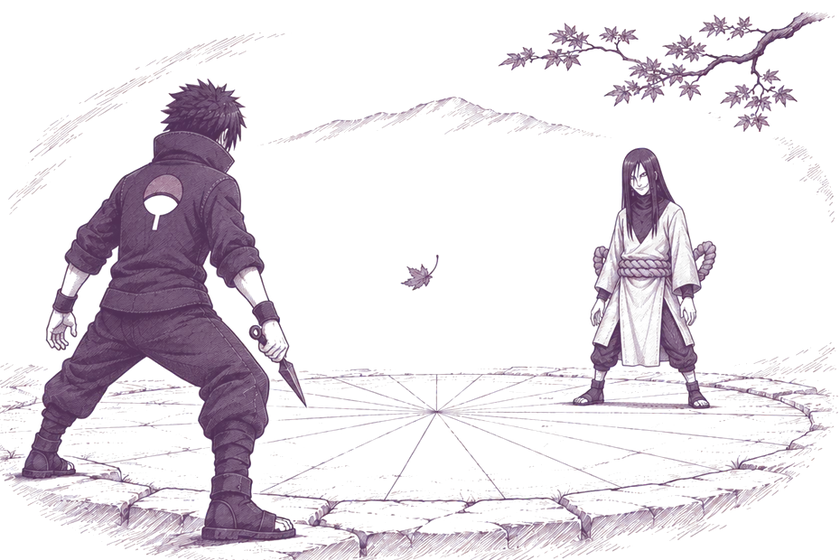
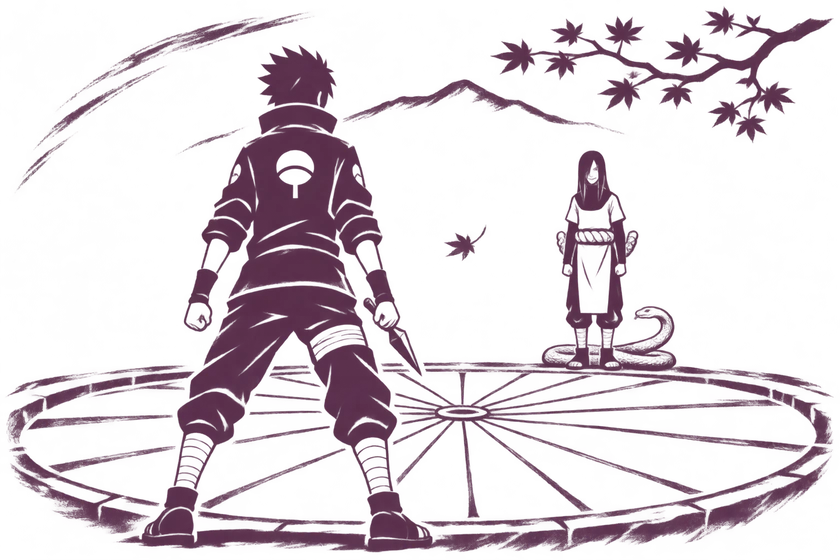
Corrija o duelo na arte do card Arcade
- Posicione Orochimaru na borda oposta com o traje corrigido

- Preserve a tinta ameixa e a transparencia do pergaminho

diff --git a/docs/tarefas/banner-arcade.md b/docs/tarefas/banner-arcade.md
@@ -1,0 +1,33 @@
+---
+objetivo: Mostrar o Uchiha e Orochimaru nas bordas opostas da roleta na ilustração do card Arcade do Portão, com o figurino de Orochimaru corrigido.
+escopo: ["docs/tarefas/banner-arcade.md", "public/img/cenas/modo-roleta.webp", "docs/visual.md", "changelog.d/banner-arcade.md"]
+fora: ["public/img/cenas/arcade.webp", "public/img/ninja/**", "public/img/viloes/**", "prototype/**", "src/**"]
+pronto: ["WebP transparente em 840 × 560, em tinta ameixa", "Figurino reconhecível e personagens em lados opostos no card", "Conferência de gate.home em 390, 768, 1280, 1920 e 2560 px", "npm run check verde e PR para staging"]
+agente: codex
+aprovado: 2026-11-28
+---
+
+# Duelo no card Arcade do Portão
+
+## Pedido
+
+Aplicar ao banner enviado o enquadramento aprovado no painel do Arcade e corrigir o desenho de Orochimaru.
+
+## Contexto
+
+O Portão usa a ilustração transparente `modo-roleta.webp`. A referência de composição é a pintura aprovada para o lobby, com o Uchiha grande, de costas, e Orochimaru menor, de frente, sobre a borda distante. A identidade dos cards está em [visual.md](../visual.md).
+
+## Plano
+
+1. Com o contrato aprovado, usar o WebP original, a pintura aprovada e o modelo de corpo inteiro como referências. Preservar o formato 3:2, as áreas transparentes, a tinta ameixa e as marcas de pincel.
+2. Desenhar o Uchiha com a kunai baixa e Orochimaru na outra extremidade do círculo. Deixar o eixo da roda entre os dois. Manter as mãos discretas, túnica de mangas curtas sobre mangas escuras, corda única na cintura, ataduras nas canelas e sandálias abertas. Usar o negativo do papel para distinguir esses detalhes em tamanho de card.
+3. Mostrar a arte para escolha antes de substituir o WebP. Conferir a transparência e a leitura no Portão, comparar antes e depois e registrar a mudança na tabela de cenas e no fragmento.
+4. Rodar `npm run check` e abrir PR da branch para `staging`.
+
+## Fora do escopo
+
+Pintura do lobby, composição da interface, textos e comportamento dos controles, demais cards, retratos e regras do jogo.
+
+## Decisão para o usuário
+
+Aprovar o contrato e conferir a nova ilustração monocromática antes da integração.

diff --git a/docs/visual.md b/docs/visual.md
@@ -168,7 +168,7 @@ O código pede a arte por **chave**, e um mapa único (`SCENE_ART` em `prototype
 | `portao` | `portao.webp` | O portão da vila e o Monte Hokage (os cinco rostos) ao pôr do sol, céu em brasa e sombras índigo, lanternas acesas | Cena SVG de Konoha |
 | `perspectiva-naruto`, `perspectiva-sasuke` | `dia`, `noite` | Pôsteres das perspectivas da História | Painel de perspectiva |
 | `jornada` | `jornada` | Banner da entrada da Jornada | Cena de Konoha |
-| `modo-jornada`, `modo-roleta` | os mesmos | Arte dos cards de modo (`modo-jornada`: o Time 7 de costas sobre o telhado, em tinta laranja; `modo-roleta`: um duelo na arena de fatias, a origem Uchiha de costas contra o Orochimaru, em tinta ameixa) | Emblema em aquarela |
+| `modo-jornada`, `modo-roleta` | os mesmos | Arte dos cards de modo. Em `modo-jornada`, o Time 7 aparece de costas sobre o telhado, em tinta laranja. Em `modo-roleta`, o Uchiha segura a kunai na borda próxima e Orochimaru espera com a cobra na borda oposta da roleta, em tinta ameixa sobre transparência | Emblema em aquarela |
 | `arco-waves`, `arco-exam`, `arco-sannin`, `arco-retrieval` | `waves`, `chunnin`, `sannin`, `sasuke` (a equipe do resgate) | Faixa de arcos da História e miniatura do card de progresso | Cenário do estágio |
 | `g1`, `g2`, `g3` | os mesmos | Miniatura do Caminho Ninja | Cenário do estágio |
 | `roleta` | (vazia) | Palco do sorteio da origem no PC | Cenário desenhado de Konoha |

diff --git a/changelog.d/banner-arcade.md b/changelog.d/banner-arcade.md
@@ -1,0 +1,1 @@
+**Card Arcade do Portão.** A ilustração em tinta ameixa mostra o Uchiha e Orochimaru em bordas opostas da roleta, com o figurino de Orochimaru corrigido.
